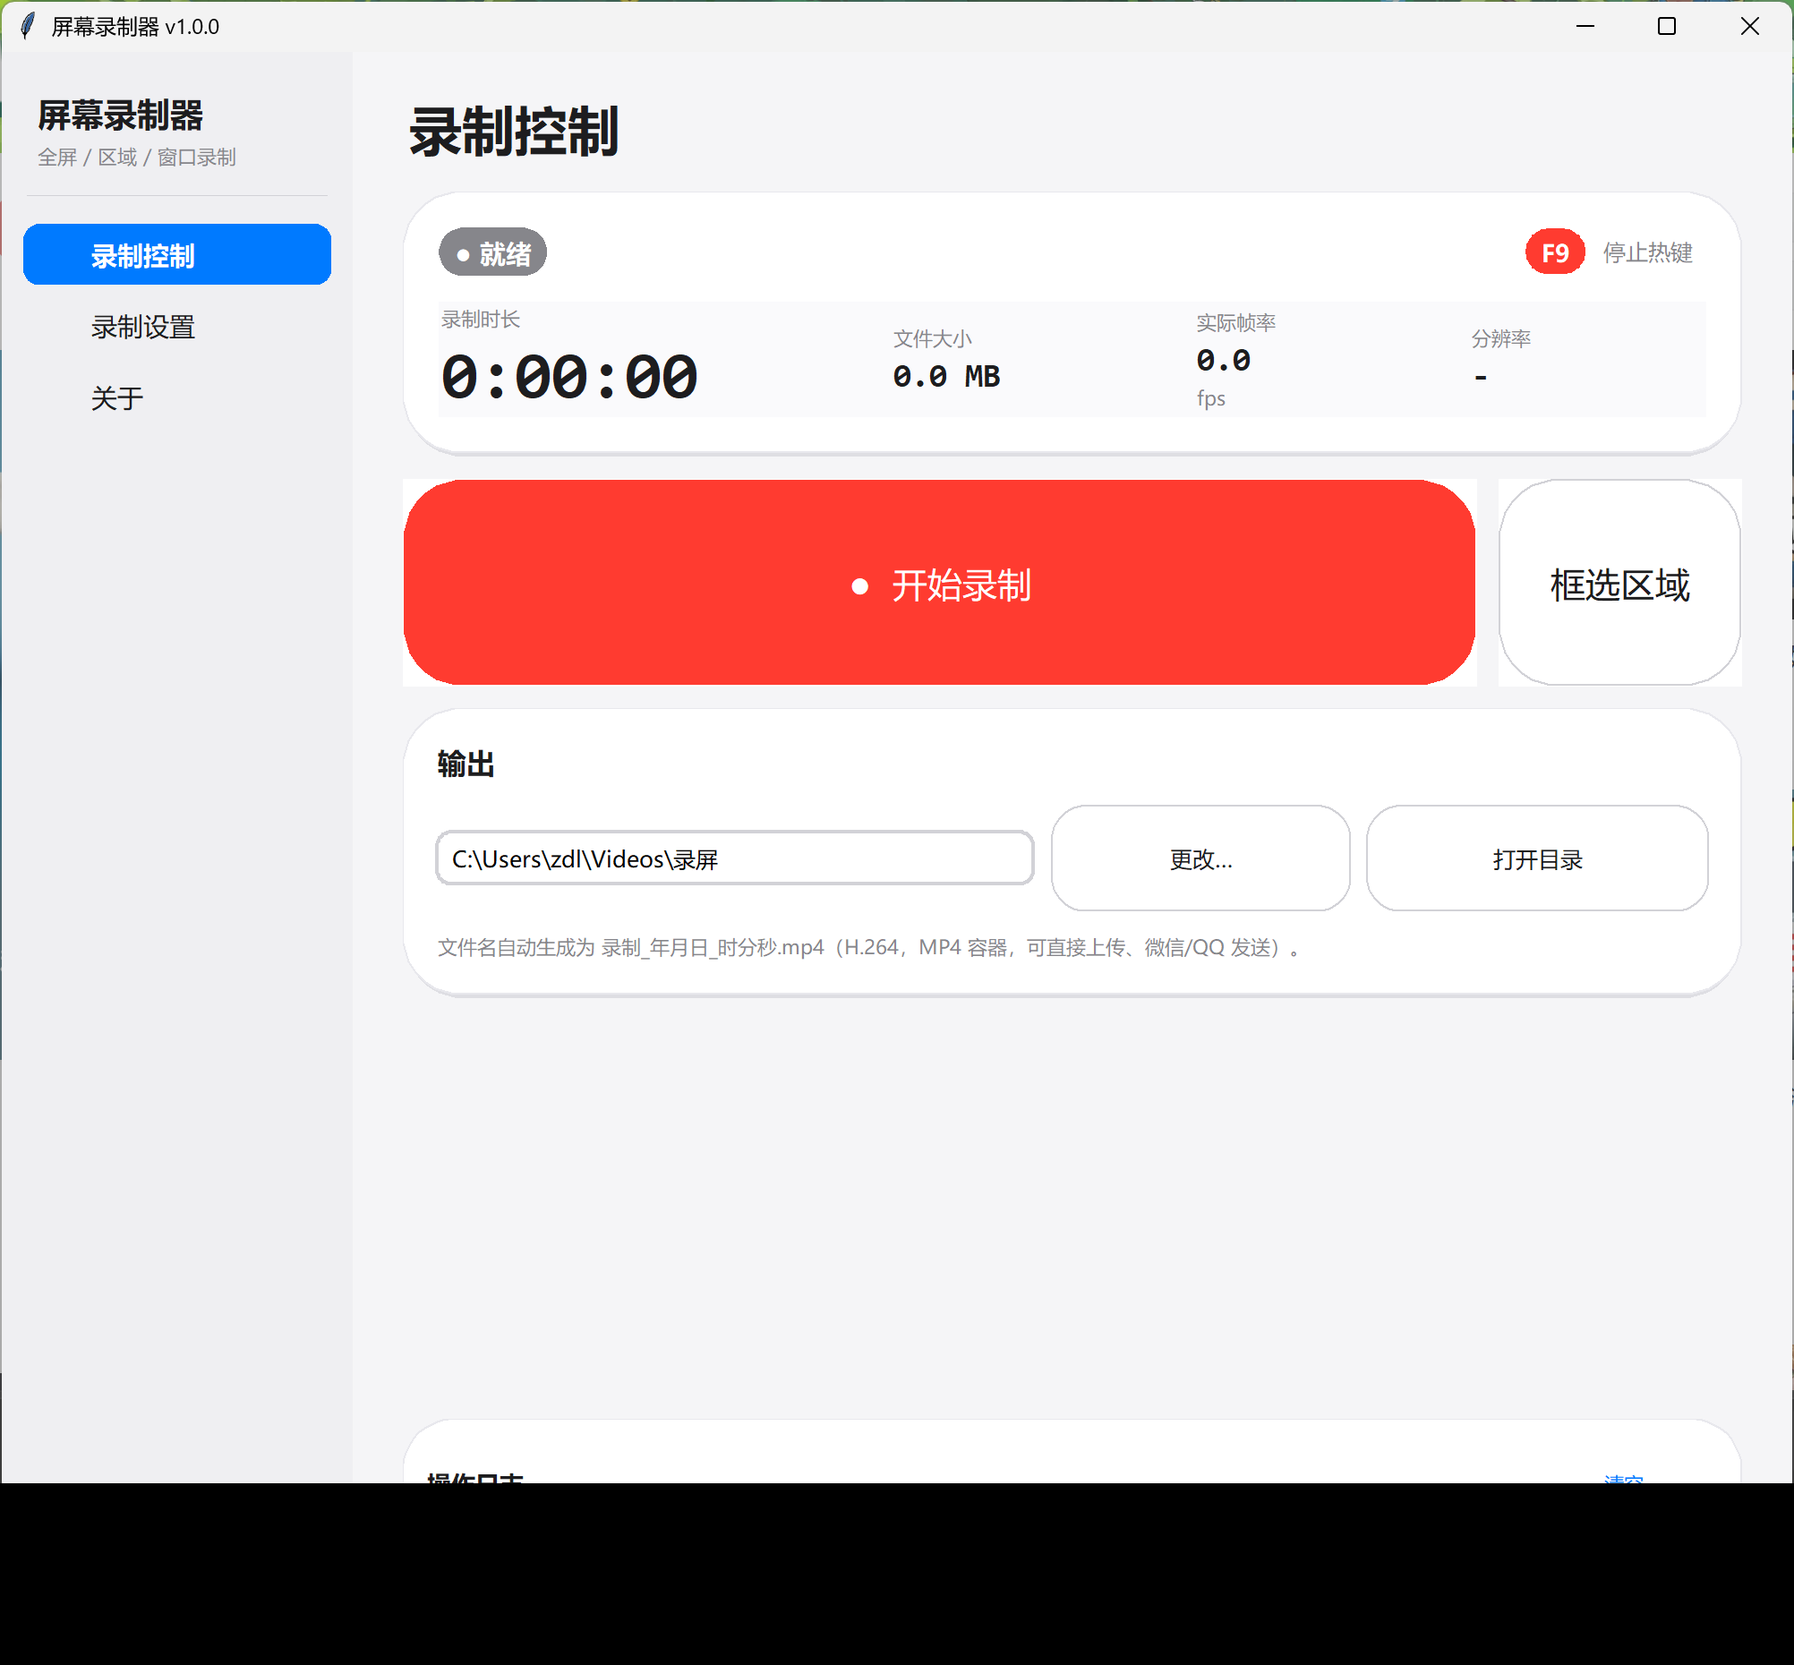
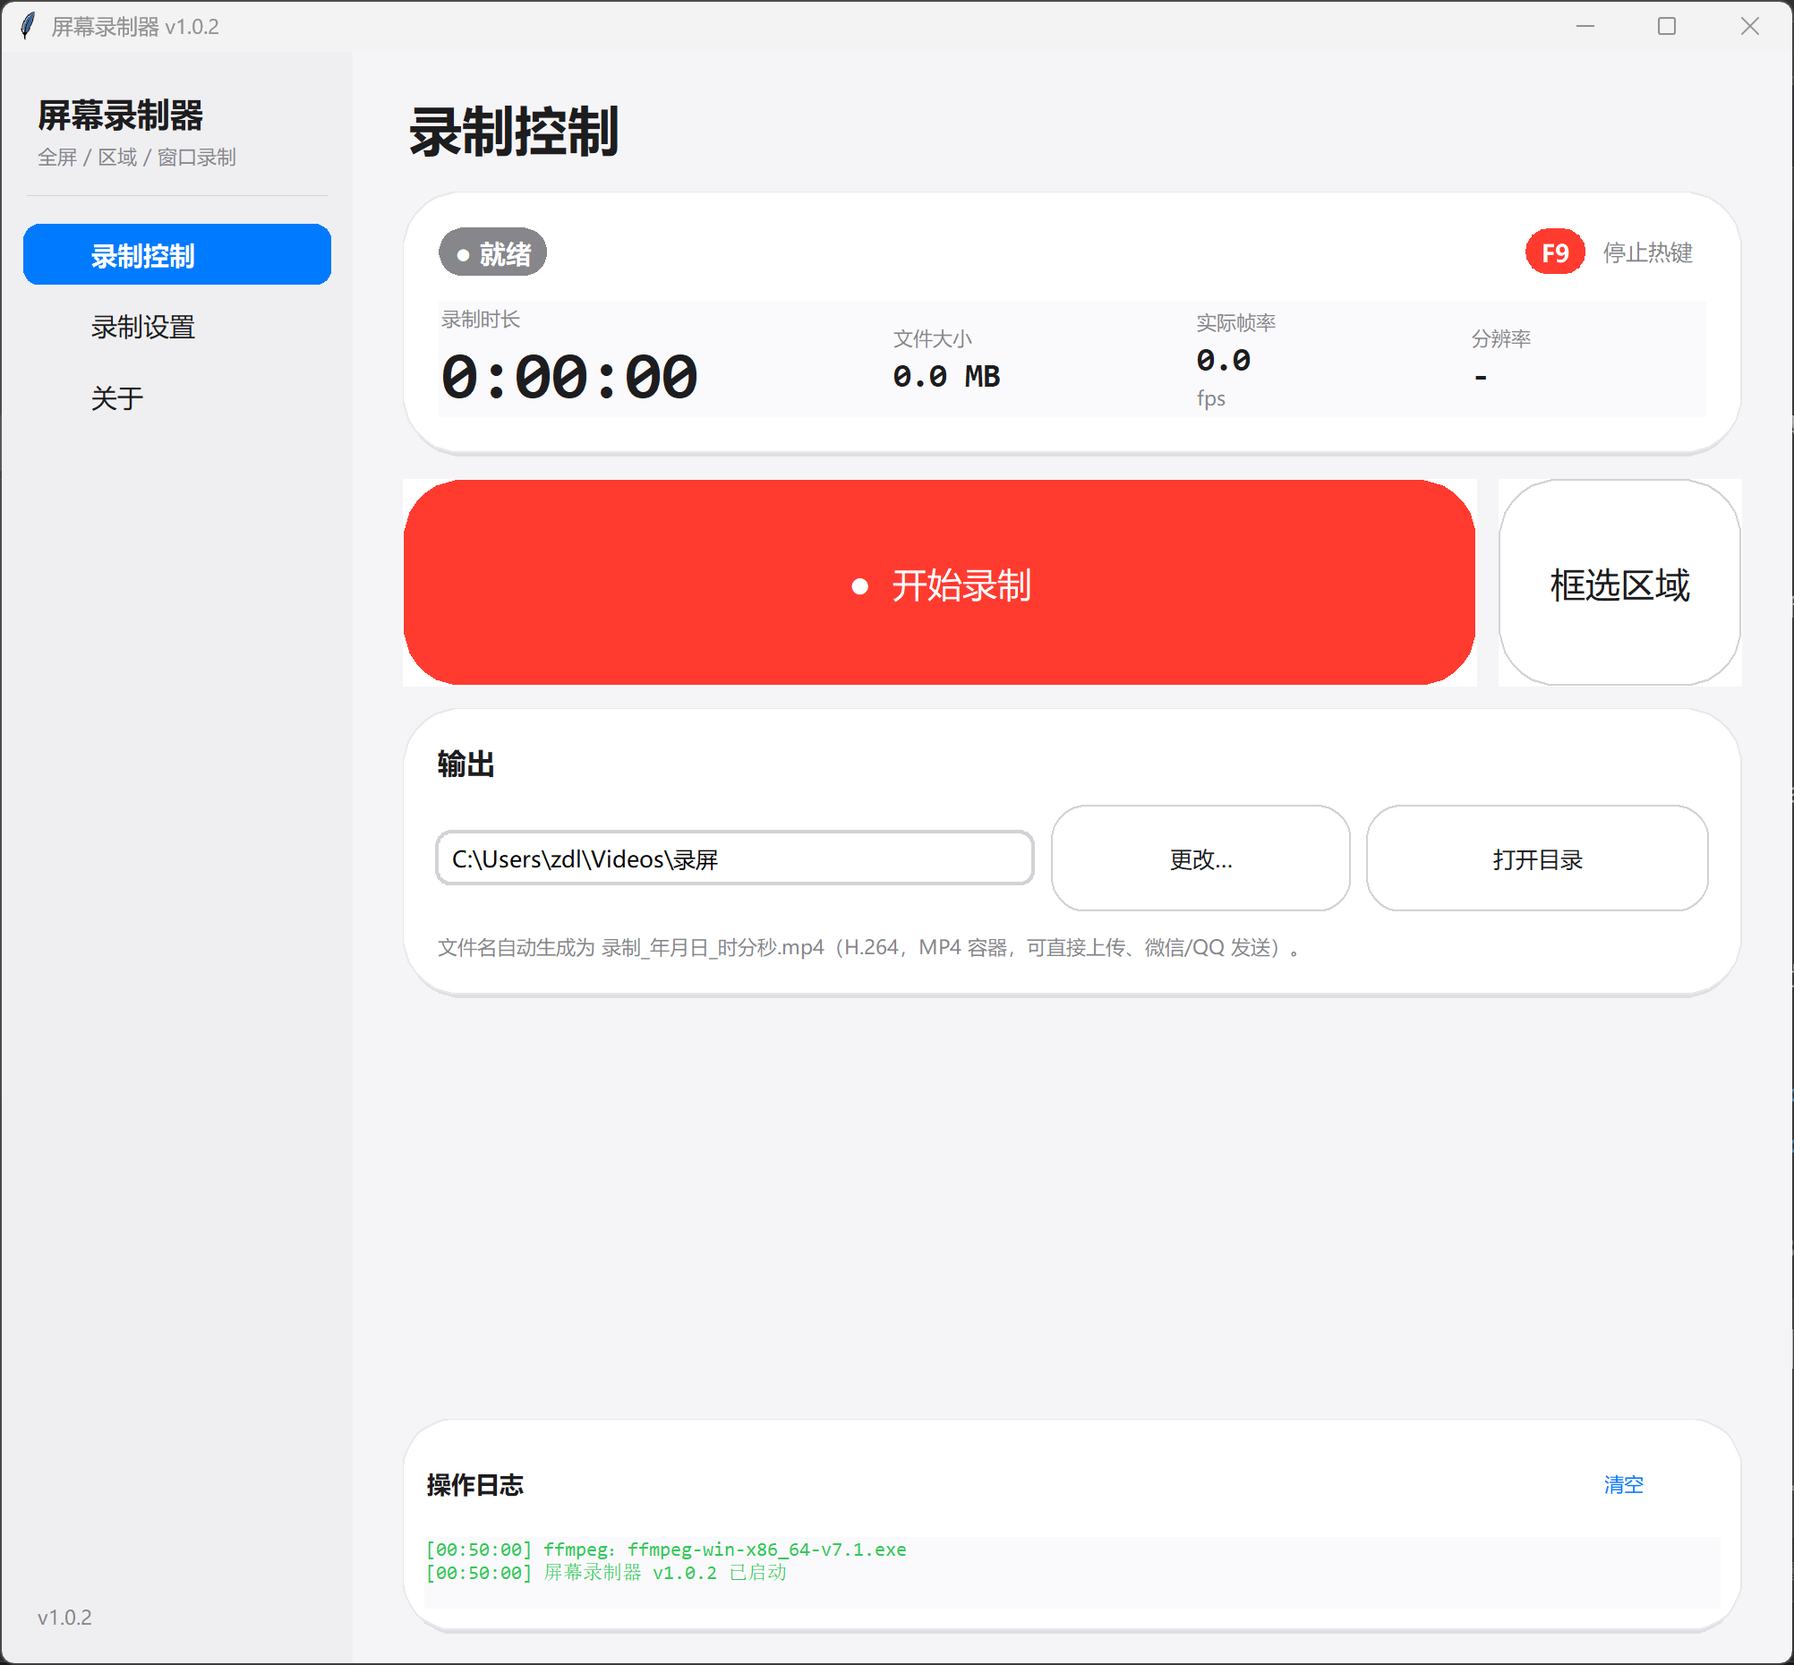
v1.0.2：修热键失灵 + 新增区域虚线标记 + 麦克风权限一键直达
修复：F1-F12 热键全部失灵
VK_F1 = 0x70，正确换算是 0x70 + i - 1，原来写成 0x70 + i。
设成 F9 实际监听的是 F10，按 F9 无反应。12 个键已逐一对照权威表断言。

新增 1：录制区域虚线标记（RegionMarker）
- 框选 / 选窗口 / 自动识别后，区域上留一圈虚线 + 四角实线角标，直观看到取景范围
- 鼠标穿透（WS_EX_TRANSPARENT | LAYERED | TOOLWINDOW），不挡用户在该区域的操作
- 跟随模式下随目标窗口移动实时更新
- 切回全屏时自动隐藏
- **录制开始前自动隐藏、录完恢复** —— 标记是屏幕上的窗口，
  不藏会被 mss 一起录进画面，录出来就有一圈虚线框
- 注意：Toplevel 的 winfo_id() 就是顶层 HWND，不能套 GetParent()，
  否则样式会设到 owner 主窗口上；64 位下需显式声明 argtypes/restype

新增 2：麦克风权限一键直达
设备列表为空时多半是系统隐私设置拦了。新增「麦克风权限」按钮，
直接拉起 ms-settings:privacy-microphone；老版本系统退回隐私总页，
再不行弹窗给出图文步骤。同时「刷新设备」在无设备时会明确提示这条路径。

版本 1.0.1 -> 1.0.2

Changed region(s): [[0.0, 0.8731, 1.0, 1.0], [0.0309, 0.0, 0.1238, 0.0312], [0.99, 0.0, 1.0, 0.0312]]

diff --git a/screen_recorder.py b/screen_recorder.py
@@ -31,7 +31,7 @@ from tkinter import filedialog, messagebox, ttk
 import win_input
 
 APP_NAME = "屏幕录制器"
-APP_VERSION = "1.0.1"
+APP_VERSION = "1.0.2"
 
 try:                       # Pillow：绘制鼠标指针 + 区域选择器预览
     from PIL import Image, ImageDraw, ImageFilter, ImageTk
@@ -508,6 +508,163 @@ class RegionSelector(tk.Toplevel):
         self.destroy()
 
 
+class RegionMarker:
+    """在已选录制区域上留一个虚线标记。
+
+    两个要点：
+    · **鼠标穿透**（WS_EX_TRANSPARENT）—— 标记只是视觉提示，不能挡住用户
+      在该区域里的正常操作。
+    · **录制时自动隐藏** —— 标记是屏幕上的窗口，会被 mss 抓进画面里。
+      所以 start() 前隐藏、stop() 后恢复，否则录出来会有一圈虚线框。
+    """
+
+    def __init__(self, master):
+        self.master = master
+        self.win = None
+        self.region = None
+        self.color = "#FF3B30"
+        self.visible = False      # 当前是否应当显示（hide 后置 False，
+        # _tick 只在 visible 时重画，否则会把隐藏的又画回来）
+        self.rec_busy = False
+        self._click_through = False
+        self._alive = True
+        master.after(150, self._tick)
+
+    # -- 内部
+    def _ensure(self):
+        if self.win is not None:
+            return
+        self.win = tk.Toplevel(self.master)
+        self.win.overrideredirect(True)
+        try:
+            self.win.attributes("-topmost", True)
+            # 内部用纯色填充 + transparentcolor，让只有边线可见
+            self.win.configure(bg=self.color)
+            self.win.attributes("-transparentcolor", self.color)
+        except Exception:  # noqa: BLE001
+            pass
+        self.canvas = tk.Canvas(self.win, bg=self.color,
+                                highlightthickness=0, bd=0)
+        self.canvas.pack(fill="both", expand=True)
+        self._make_click_through()
+
+    def _make_click_through(self):
+        """WS_EX_TRANSPARENT 让鼠标事件穿透到下层窗口。
+
+        坑：Toplevel 的 winfo_id() **就是**顶层 HWND，
+        再套一层 GetParent() 会取到它的 owner（主窗口），
+        结果把扩展样式设到了主窗口上，标记窗口反而挡鼠标。
+        另需显式声明 argtypes/restype，否则 64 位下句柄被截断。
+        """
+        try:
+            hwnd = self.win.winfo_id()
+            getl = ctypes.windll.user32.GetWindowLongW
+            setl = ctypes.windll.user32.SetWindowLongW
+            getl.argtypes = [ctypes.wintypes.HWND, ctypes.c_int]
+            getl.restype = ctypes.c_long
+            setl.argtypes = [ctypes.wintypes.HWND, ctypes.c_int, ctypes.c_long]
+            setl.restype = ctypes.c_long
+            GWL_EXSTYLE = -20
+            WS_EX_TRANSPARENT = 0x20
+            WS_EX_LAYERED = 0x80000
+            WS_EX_TOOLWINDOW = 0x80
+            ex = getl(hwnd, GWL_EXSTYLE)
+            setl(hwnd, GWL_EXSTYLE,
+                 ex | WS_EX_TRANSPARENT | WS_EX_LAYERED | WS_EX_TOOLWINDOW)
+            self._click_through = True
+        except Exception:  # noqa: BLE001
+            self._click_through = False
+
+    def _draw(self):
+        if not self.region:
+            return
+        l, t, w, h = self.region
+        if w < 2 or h < 2:
+            return
+        self._ensure()
+        try:
+            #坑：hide() 用的是 withdraw()，重新显示时必须 deiconify()，
+            # 否则窗口仍是 withdrawn 状态，_draw() 画了也看不见。
+            try:
+                if self.win.state() != "normal":
+                    self.win.deiconify()
+            except tk.TclError:
+                pass
+            self.win.geometry("%dx%d+%d+%d" % (w, h, l, t))
+            self.canvas.delete("all")
+            self.canvas.create_rectangle(px(1), px(1), w - px(2), h - px(2),
+                                         outline=self.color, width=px(2),
+                                         dash=(px(6), px(4)))
+            # 四角实线标记，视觉上更明确
+            for cx, cy in ((px(1), px(1)), (w - px(2), px(1)),
+                           (px(1), h - px(2)), (w - px(2), h - px(2))):
+                self.canvas.create_line(cx, cy,
+                                        cx + (px(14) if cx < w / 2 else -px(14)),
+                                        cy, fill=self.color, width=px(3))
+                self.canvas.create_line(cx, cy,
+                                        cx, cy + (px(14) if cy < h / 2 else -px(14)),
+                                        fill=self.color, width=px(3))
+        except tk.TclError:
+            pass
+
+    # -- 对外
+    def show(self, region, color=None):
+        """显示/移动标记"""
+        if region and region[2] > 1 and region[3] > 1:
+            self.region = tuple(region)
+            if color:
+                self.color = color
+            self.visible = True
+            self._draw()
+
+    def hide(self):
+        """隐藏但保留 region（切回全屏、或录制中用）"""
+        self.visible = False
+        if self.win is not None:
+            try:
+                self.win.withdraw()
+            except tk.TclError:
+                pass
+
+    def suspend(self, on):
+        """录制期间整体收起/恢复"""
+        self.rec_busy = on
+        if on:
+            self.hide()
+        elif self.visible:
+            self._draw()
+
+    def close(self):
+        self._alive = False
+        if self.win is not None:
+            try:
+                self.win.destroy()
+            except tk.TclError:
+                pass
+            self.win = None
+
+    def _tick(self):
+        """定时重绘：跟随模式下区域会随窗口移动。
+
+        只在 visible 且非录制中才重画 —— 否则会把 hide() 掉的标记
+        立刻又画回来（全屏模式下就会冒出一圈虚线）。
+        """
+        if not self._alive:
+            return
+        try:
+            if self.visible and not self.rec_busy and self.region \
+                    and self.win is not None:
+                self._draw()
+        except Exception:  # noqa: BLE001
+            pass
+        try:
+            self.master.after(150, self._tick)
+        except tk.TclError:
+            pass
+
+    rec_busy = False
+
+
 # ============================================================ GUI
 
 class RecorderApp(AppBase):
@@ -542,6 +699,10 @@ class RecorderApp(AppBase):
         self._audio_devices = []
         super().__init__(root, size=(960, 720), minsize=(900, 660))
         self.root.protocol("WM_DELETE_WINDOW", self.on_close)
+        # 区域虚线标记。必须在 super().__init__ 之后建 ——
+        # AppBase 内部才把传入的 root 存成 self.root。
+        # 录制时自动隐藏，避免被录进画面。
+        self.marker = RegionMarker(self.root)
 
     @staticmethod
     def _default_dir():
@@ -724,6 +885,9 @@ class RecorderApp(AppBase):
         AppleButton(r4, "刷新设备", command=self.refresh_audio, style="secondary",
                     width=px(96), height=px(32), radius=px(9),
                     font=F(10)).pack(side="left", padx=px(8))
+        AppleButton(r4, "麦克风权限", command=self.open_mic_settings,
+                    style="secondary", width=px(110), height=px(32),
+                    radius=px(9), font=F(10)).pack(side="left")
         tk.Label(box2,
                  text="录系统声音：Windows「设置 → 隐私和安全性 → 声音 → 允许桌面应用"
                       "播放音频」后，这里会出现 虚拟音频 / 立体声混音 设备。",
@@ -819,6 +983,7 @@ class RecorderApp(AppBase):
     def _update_region_label(self):
         l, t, w, h = self.region_val
         mode = getattr(self, "region_mode", "full")
+        self._sync_marker(mode)
         if mode == "window":
             win = self._current_window()
             if win is None:
@@ -859,6 +1024,21 @@ class RecorderApp(AppBase):
         self.btn_follow.set_text("跟随移动 ●" if self.follow else "跟随移动")
         self.log("窗口跟随：%s" % ("开启（录制中窗口移动会自动调整取景）"
                                   if self.follow else "关闭"), "ok")
+
+    def _sync_marker(self, mode):
+        """区域变化时同步虚线标记。
+
+        只有「框选 / 应用窗口 / 自动识别」这三种需要画；
+        全屏模式没有明确边界，画出来反而挡视线。
+        录制中（rec_busy）不画，否则会被录进画面。
+        """
+        mk = getattr(self, "marker", None)
+        if mk is None or getattr(mk, "rec_busy", False):
+            return
+        if mode == "full" or not self.region_val[2]:
+            mk.hide()
+        else:
+            mk.show(self.region_val)
 
     def _sync_window_region(self):
         """录制中实时读取目标窗口位置，实现跟随。"""
@@ -915,8 +1095,10 @@ class RecorderApp(AppBase):
                 self.region_val = rect
                 self.region_seg.select(1)
                 self.region.set("框选区域")
+                self.region_mode = "pick"
                 self._update_region_label()
-                self.log("已选择区域：%d, %d · %d×%d" % rect, "ok")
+                self.log("已选择区域：%d, %d · %d×%d（已留下虚线标记，可拖动窗口"
+                         "看到取景范围）" % rect, "ok")
             else:
                 self.log("已取消框选。")
         RegionSelector(self.root, done)
@@ -933,8 +1115,40 @@ class RecorderApp(AppBase):
         vals = ["不录音"] + self._audio_devices
         self.audio_combo.configure(values=vals)
         self.audio_var.set("不录音")
-        self.log("检测到 %d 个录音设备。" % len(self._audio_devices),
-                 "ok" if self._audio_devices else "warn")
+        if self._audio_devices:
+            self.log("检测到 %d 个录音设备。" % len(self._audio_devices), "ok")
+        else:
+            self.log("没有检测到录音设备。若设备存在但列表为空，多半是系统"
+                     "隐私设置拦了 —— 点「麦克风权限」一键打开对应开关，"
+                     "授权后回来点「刷新设备」。", "warn")
+
+    def open_mic_settings(self):
+        """一键跳到 Windows 的麦克风/音频隐私设置页。
+
+        直接用 ms-settings URI 打开对应子页面，省得用户在设置里翻。
+        ms-settings 不可用时（老版本 Windows）退回总隐私页。
+        """
+        uris = ["ms-settings:privacy-microphone",
+                "ms-settings:privacy",
+                "control.exe /name Microsoft.Privacy"]
+        for target in uris:
+            try:
+                if os.name != "nt":
+                    break
+                os.startfile(target) if not target.startswith("control") \
+                    else subprocess.Popen(target, shell=True)
+                self.log("已打开系统设置：%s。打开「允许桌面应用访问麦克风」后，"
+                         "回来点「刷新设备」。" % target, "ok")
+                return
+            except Exception:  # noqa: BLE001
+                continue
+        messagebox.showinfo(
+            "麦克风权限",
+            "请手动打开：设置 → 隐私和安全性 → 声音 → 麦克风，\n"
+            "打开「允许桌面应用访问麦克风」。\n\n"
+            "若你要录的是系统声音（而非麦克风），还需要打开\n"
+            "「允许桌面应用播放音频」，之后点「刷新设备」即可看到"
+            "「立体声混音」等设备。")
 
     def _target_region(self):
         # 应用窗口模式：每次都取窗口的实时矩形
@@ -992,12 +1206,19 @@ class RecorderApp(AppBase):
         out = os.path.join(d, name)
         reg = self._target_region()
         audio = "" if self.audio_var.get() == "不录音" else self.audio_var.get()
+        # 先藏标记再开始录：标记是屏幕上的窗口，不藏会被一起录进画面
+        if getattr(self, "marker", None) is not None:
+            self.marker.rec_busy = True
+            self.marker.hide()
         try:
             self.rec.start(reg, int(self.fps.get()), self.crf.get(), out,
                            self.cursor_var.get(), audio)
         except Exception as e:  # noqa: BLE001
             self.log("启动失败：%s" % e, "error")
             messagebox.showerror("无法开始录制", str(e))
+            if getattr(self, "marker", None) is not None:
+                self.marker.rec_busy = False
+                self._sync_marker(getattr(self, "region_mode", "full"))
             return
         self.state_pill.set("● 录制中", THEME["red"])
         self.size_var.set("0.0 MB")
@@ -1040,6 +1261,10 @@ class RecorderApp(AppBase):
         self.btn_rec.set_text("●  开始录制")
         self.state_pill.set("● 就绪", THEME["text3"])
         self.fpsreal_var.set("0.0")
+        # 录制结束，把虚线标记放回来
+        if getattr(self, "marker", None) is not None:
+            self.marker.rec_busy = False
+            self._sync_marker(getattr(self, "region_mode", "full"))
 
     def _on_engine(self, kind, *a):
         if kind == "tick":
@@ -1076,7 +1301,10 @@ class RecorderApp(AppBase):
             self.log("请把 ffmpeg.exe 放到程序同目录，或安装 ffmpeg 并加入 PATH。", "error")
 
     def _poll_hotkey(self):
-        vk = {"F%d" % i: 0x70 + i for i in range(1, 13)}.get(self.hotkey_var.get())
+        # 坑：VK_F1 = 0x70，正确换算是 0x70 + i - 1。
+        # 之前写成 0x70 + i 整体偏移一位：设成 F9 实际监听的是 F10，按 F9 无反应。
+        vk = {"F%d" % i: 0x70 + i - 1
+              for i in range(1, 13)}.get(self.hotkey_var.get())
         try:
             if vk:
                 down = bool(ctypes.windll.user32.GetAsyncKeyState(vk) & 0x8000)
@@ -1095,6 +1323,8 @@ class RecorderApp(AppBase):
             if not messagebox.askyesno("退出", "正在录制中，退出将结束并保存当前文件，继续？"):
                 return
             self.rec.stop()
+        if getattr(self, "marker", None) is not None:
+            self.marker.close()
         self.root.destroy()
 
 
